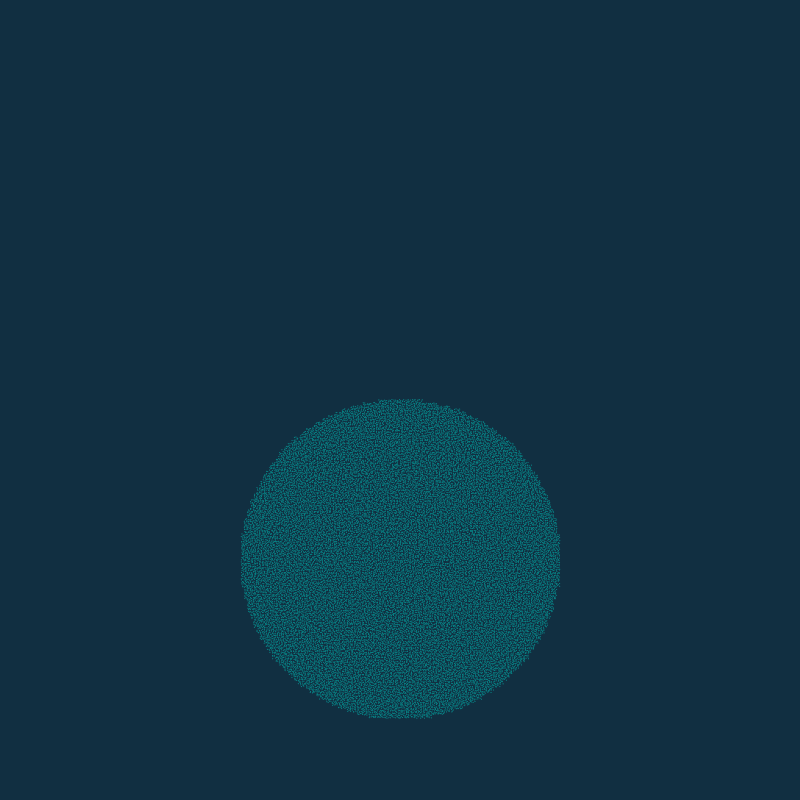
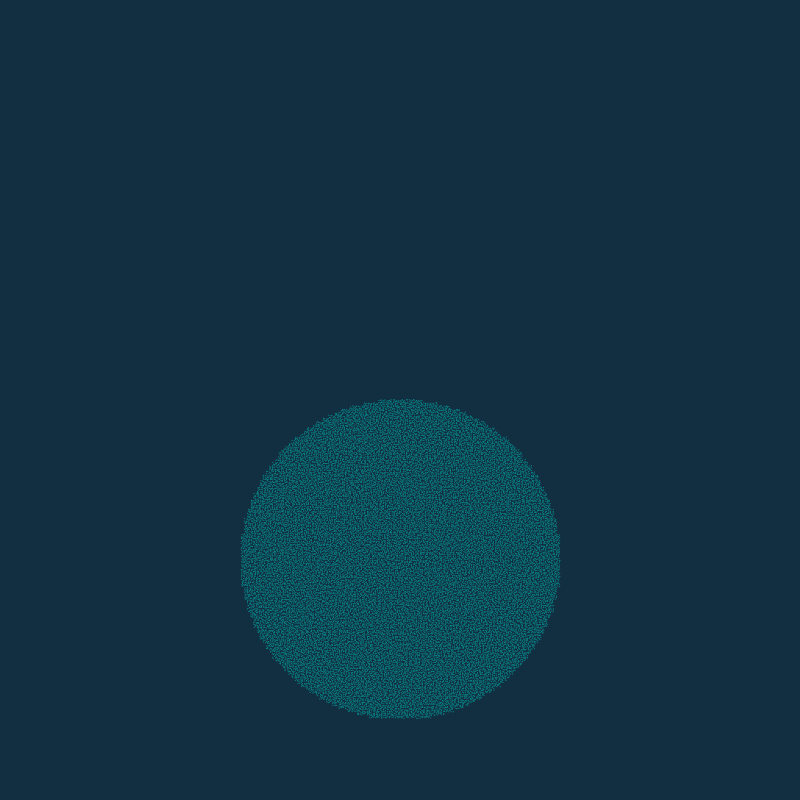
Temperature MGPCG update

Changed region(s): [[0.2812, 0.5, 0.7188, 0.9062]]

diff --git a/Temperature_MGPCGSolver.py b/Temperature_MGPCGSolver.py
@@ -75,9 +75,7 @@ class Temperature_MGPCGSolver:
         # assume that scale_b = 1 / grid_x
         for i, j in ti.ndrange(self.m, self.n):
             if self.cell_type[i, j] == utils.FLUID:
-                self.b[i,
-                       j] = (-1) * (self.Je[i, j]-1) / (self.dt * self.Je[i, j]) + (-1) * scale_b * (self.u[i + 1, j] - self.u[i, j] +
-                                            self.v[i, j + 1] - self.v[i, j])
+                self.b[i, j] = self.old_T[i, j]
             elif self.cell_type[i, j] == utils.AIR:
                 # hardcode 343K
                 self.b[i, j] = 343
@@ -104,7 +102,7 @@ class Temperature_MGPCGSolver:
         for i, j in ti.ndrange(self.m, self.n):
             if self.cell_type[i, j] == utils.FLUID:
                 new_scale_A = scale_A / self.c[i, j]
-                self.Adiag[0][i, j] += (self.Jp[i, j] / (self.Je[i, j] * self.dt)) * self.inv_lambda[i, j]
+                self.Adiag[0][i, j] += 1.0
                 if self.cell_type[i - 1, j] == utils.FLUID:
                     self.Adiag[0][i, j] -= new_scale_A
                 if self.cell_type[i + 1, j] == utils.FLUID:
@@ -150,12 +148,12 @@ class Temperature_MGPCGSolver:
 
     @ti.kernel
     def preconditioner_init(self, scale: ti.f32, l: ti.template()):
-        new_scale_A = scale / self.c[i, j]
-        s = new_scale_A / (2**l * 2**l)
 
         for i, j in self.grid_type[l]:
             if self.grid_type[l][i, j] == utils.FLUID:
-                self.Adiag[l][i, j] += ((self.Jp[i, j] / (self.Je[i, j] * self.dt)) * self.inv_lambda[i, j]) / (2**l * 2**l)
+                new_scale_A = scale / self.c[i, j]
+                s = new_scale_A / (2**l * 2**l)
+                self.Adiag[l][i, j] += 1.0 / (2**l * 2**l)
                 if self.grid_type[l][i - 1, j] == utils.FLUID:
                     self.Adiag[l][i, j] -= s
                 if self.grid_type[l][i + 1, j] == utils.FLUID:

diff --git a/phase_change.py b/phase_change.py
@@ -3,7 +3,9 @@ import taichi as ti
 from Pressure_CGSolver import Pressure_CGSolver
 from Temperature_CGSolver import Temperature_CGSolver
 from MICPCGSolver import MICPCGSolver
-from MGPCGSolver import MGPCGSolver
+# from MGPCGSolver import MGPCGSolver
+from Pressure_MGPCGSolver import Pressure_MGPCGSolver
+from Temperature_MGPCGSolver import Temperature_MGPCGSolver
 import numpy as np
 from utils import ColorMap, vec2, vec3, clamp
 import utils
@@ -143,8 +145,8 @@ cell_type = ti.field(dtype=ti.i32, shape=(m, n))
 
 
 #pressure solver
-# preconditioning = 'MG'
-preconditioning = None
+preconditioning = 'MG'
+# preconditioning = None
 
 MIC_blending = 0.97
 
@@ -161,12 +163,10 @@ if preconditioning == None:
 elif preconditioning == 'MIC':
     solver = MICPCGSolver(m, n, u, v, cell_type, MIC_blending=MIC_blending)
 elif preconditioning == 'MG':
-    solver = MGPCGSolver(m,
-                         n,
-                         u,
-                         v,
-                         cell_type,
-                         multigrid_level=mg_level,
+    pressure_solver = Pressure_MGPCGSolver(m, n, u, v, dt, Jp, Je, inv_lambda, cell_type, multigrid_level=mg_level,
+                         pre_and_post_smoothing=pre_and_post_smoothing,
+                         bottom_smoothing=bottom_smoothing)
+    temperature_solver = Temperature_MGPCGSolver(m, n, k_u, k_v, T, c, cell_type, multigrid_level=mg_level,
                          pre_and_post_smoothing=pre_and_post_smoothing,
                          bottom_smoothing=bottom_smoothing)
 
